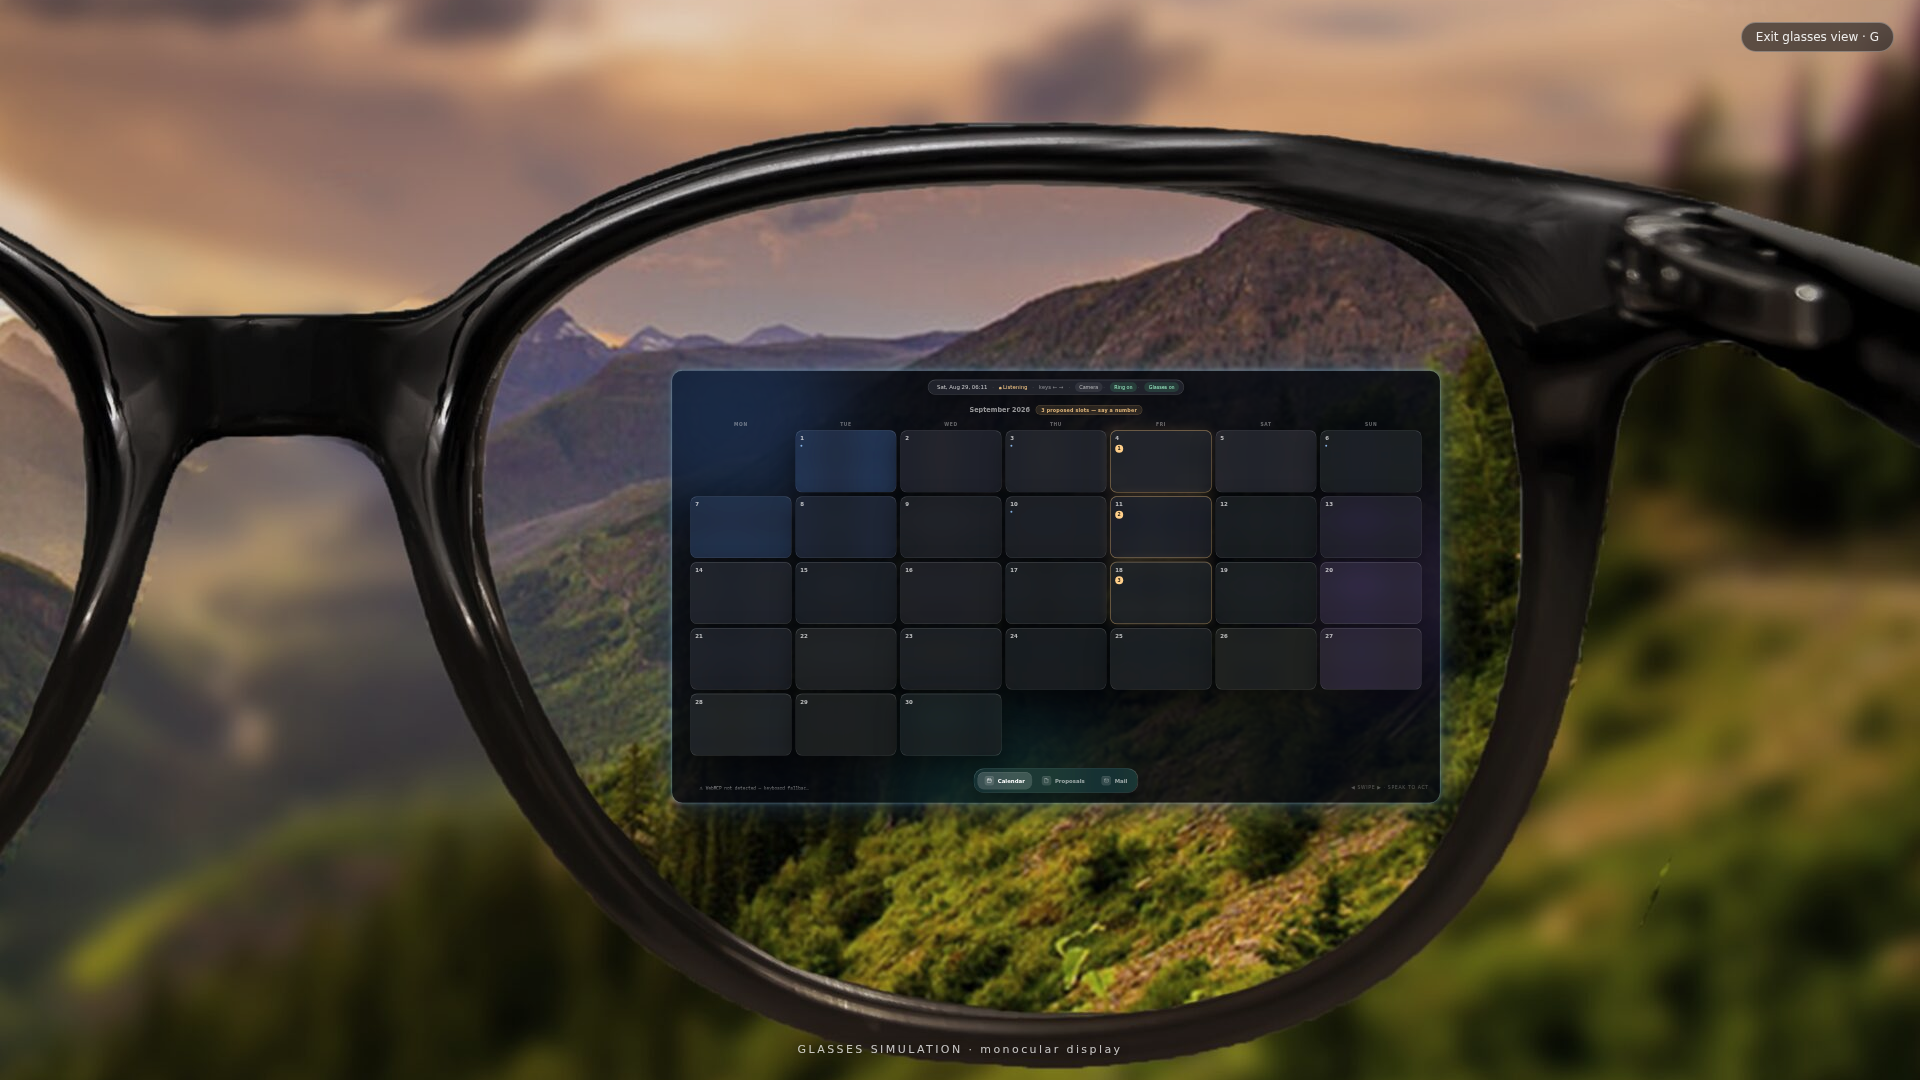
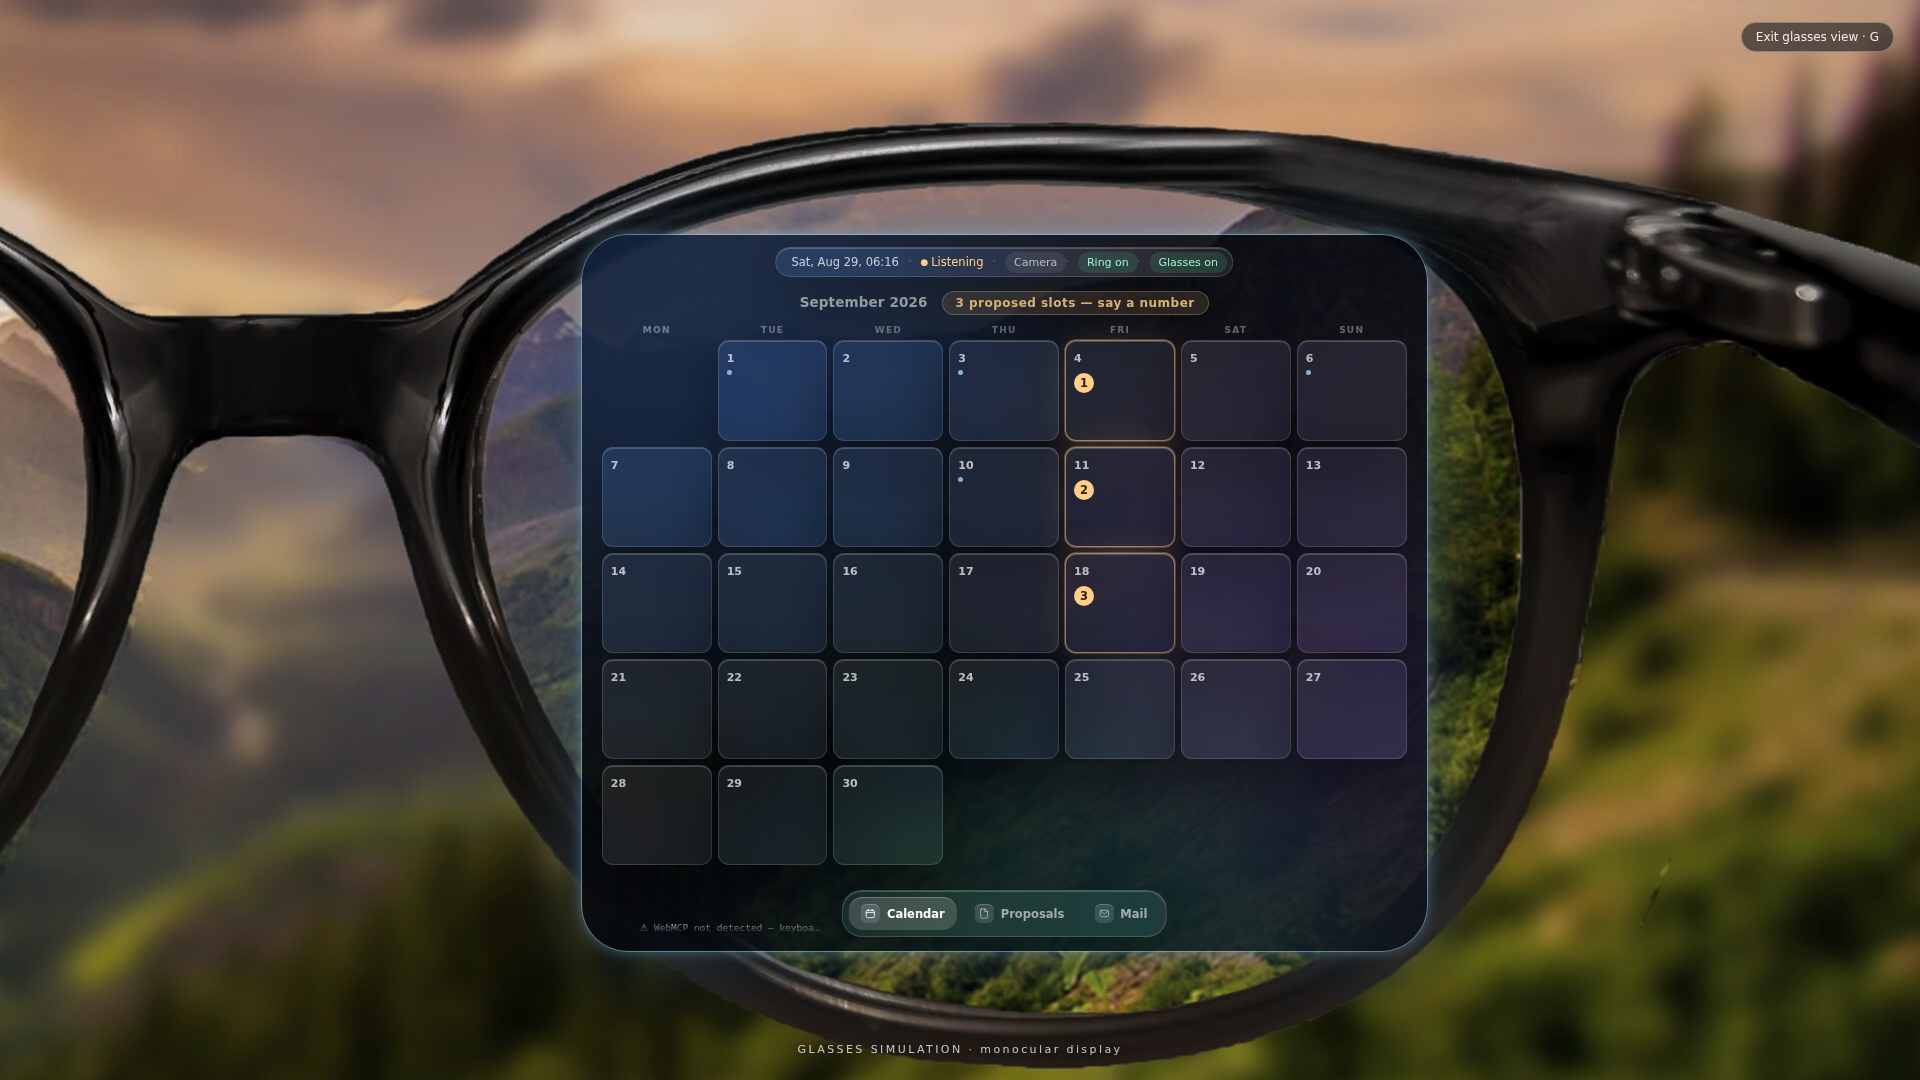
Glasses breakpoint: app reflows into a near-square lens viewport instead of scaling down

Changed region(s): [[0.2812, 0.1833, 0.75, 0.9472]]

diff --git a/src/style.css b/src/style.css
@@ -421,8 +421,8 @@ body {
 }
 
 body.glasses-on #app {
-  position: relative; z-index: 5;
-  border-radius: 26px;
+  z-index: 5;
+  border-radius: 46px;
   overflow: hidden;
   outline: 1px solid rgba(170, 225, 255, 0.4);
   box-shadow:
@@ -431,6 +431,46 @@ body.glasses-on #app {
     0 30px 80px rgba(0, 0, 0, 0.5);
   background: rgba(7, 10, 18, 0.86);
 }
+
+/* The glasses breakpoint: like a phone media query, but the trigger is the
+   lens. The app gets a near-square viewport, so the layout compacts. */
+body.glasses-on #chip { top: 12px; gap: 9px; padding: 7px 15px; font-size: 11.5px; }
+body.glasses-on #chip .mcp, body.glasses-on #chip .mcp + .sep { display: none; }
+body.glasses-on #camera-toggle, body.glasses-on #controller-toggle, body.glasses-on #glasses-toggle { font-size: 11px; padding: 4px 9px; }
+body.glasses-on #stage { inset: 56px 0 86px; }
+body.glasses-on .hello { padding: 28px 36px; border-radius: 26px; }
+body.glasses-on .hello h1 { font-size: 26px; }
+body.glasses-on .hello p { font-size: 13.5px; margin-top: 9px; }
+body.glasses-on .card {
+  width: min(400px, 82%); min-height: 272px; margin-top: -150px;
+  padding: 22px 26px; border-radius: 24px;
+}
+body.glasses-on .reader { width: min(520px, 90%); padding: 26px 30px; border-radius: 26px; }
+body.glasses-on .reader h1 { font-size: 23px; }
+body.glasses-on .reader .body { font-size: 14px; line-height: 1.65; margin-top: 14px; }
+body.glasses-on .rhint { margin-top: 18px; font-size: 10.5px; }
+body.glasses-on .calwrap { padding: 0 20px; }
+body.glasses-on .calhead { font-size: 13.5px; margin-bottom: 10px; }
+body.glasses-on .week { gap: 7px; }
+body.glasses-on .day { border-radius: 15px; padding: 10px 9px; }
+body.glasses-on .dh { margin-bottom: 7px; }
+body.glasses-on .dh .wd { font-size: 9px; letter-spacing: 0.1em; }
+body.glasses-on .dh .dn { font-size: 15px; }
+body.glasses-on .ev { border-radius: 8px; padding: 5px 7px; font-size: 10px; margin-top: 5px; }
+body.glasses-on .ev b { font-size: 9.5px; }
+body.glasses-on .mhead { gap: 6px; margin-bottom: 5px; }
+body.glasses-on .mhead span { font-size: 9px; }
+body.glasses-on .month { gap: 6px; }
+body.glasses-on .mcell { border-radius: 11px; padding: 6px 8px; }
+body.glasses-on .mcell .dn { font-size: 11px; }
+body.glasses-on .mdots { margin-top: 4px; }
+body.glasses-on #dock { bottom: 14px; padding: 6px; border-radius: 20px; }
+body.glasses-on .dock-item { padding: 7px 12px; font-size: 11.5px; gap: 7px; border-radius: 14px; }
+body.glasses-on .dock-item .ic { width: 19px; height: 19px; border-radius: 6px; }
+body.glasses-on .dock-item .ic svg { width: 11px; height: 11px; }
+body.glasses-on #hint { display: none; }
+body.glasses-on #feed { left: 18px; bottom: 16px; width: 220px; font-size: 9.5px; }
+body.glasses-on #swipe-pulse { font-size: 44px; }
 
 #glasses-chrome { position: fixed; inset: 0; z-index: 40; pointer-events: none; }
 #glasses-chrome[hidden] { display: none; }

diff --git a/src/views/glasses.ts b/src/views/glasses.ts
@@ -5,11 +5,13 @@
 // channel (agent tools, palm, ring, keys) keeps working.
 const STORAGE_KEY = "webmcp-surface-glasses";
 
-// Where the lens sits inside the photo, as fractions of the image, and how
-// wide the projected panel should be relative to the lens. Tuned by eye
-// against public/glasses-pov.jpg — adjust here if the photo changes.
+// Where the lens sits inside the photo, as fractions of the image, and the
+// display box carved into it. Tuned by eye against public/glasses-pov.jpg —
+// adjust here if the photo changes. `aspect` is the glasses breakpoint: the
+// app is given a real near-square viewport of this shape (not scaled down),
+// so the layout genuinely reflows to fit the lens.
 const IMAGE_ASPECT = 1920 / 1334;
-const LENS = { cx: 0.55, cy: 0.535, panelWidth: 0.4 };
+const LENS = { cx: 0.523, cy: 0.54, width: 0.44, aspect: 1.18 };
 
 function feed(line: string) {
   document.dispatchEvent(new CustomEvent<string>("agent-feed", { detail: line }));
@@ -57,8 +59,13 @@ export class GlassesMode {
     this.chrome.hidden = !this.enabled;
     this.button.textContent = this.enabled ? "Glasses on" : "Glasses";
     this.button.classList.toggle("on", this.enabled);
-    if (this.enabled) this.reposition();
-    else this.app.style.transform = "";
+    if (this.enabled) {
+      this.reposition();
+    } else {
+      for (const prop of ["position", "left", "top", "width", "height", "transform"] as const) {
+        this.app.style[prop] = "";
+      }
+    }
     try {
       localStorage.setItem(STORAGE_KEY, this.enabled ? "1" : "0");
     } catch {
@@ -68,8 +75,8 @@ export class GlassesMode {
   }
 
   // The photo covers the viewport (object-fit: cover). Recompute where the
-  // lens landed on screen and pin the scaled app to it, so the UI stays on
-  // the glasses at any window size.
+  // lens landed on screen and give the app a real box of that size — resize,
+  // not scale, so the UI reflows to the lens shape and text stays readable.
   private reposition() {
     if (!this.enabled) return;
     const vw = window.innerWidth;
@@ -80,8 +87,15 @@ export class GlassesMode {
     const offsetY = (vh - dispH) / 2;
     const cx = offsetX + LENS.cx * dispW;
     const cy = offsetY + LENS.cy * dispH;
-    const s = (LENS.panelWidth * dispW) / vw;
-    this.app.style.transform = `translate(${(cx - vw / 2).toFixed(1)}px, ${(cy - vh / 2).toFixed(1)}px) scale(${s.toFixed(4)})`;
+    const w = LENS.width * dispW;
+    const h = w / LENS.aspect;
+    Object.assign(this.app.style, {
+      position: "fixed",
+      left: `${(cx - w / 2).toFixed(1)}px`,
+      top: `${(cy - h / 2).toFixed(1)}px`,
+      width: `${w.toFixed(1)}px`,
+      height: `${h.toFixed(1)}px`,
+    });
   }
 
   private buildBackdrop(): HTMLElement {

diff --git a/README.md b/README.md
@@ -71,10 +71,14 @@ Responsive design adapted layout to screens; this surface adapts *interaction*
 to context. The **Glasses** toggle shows what that means: the wearer's point
 of view through one lens, with the same live page projected inside the lens as
 a monocular AR display — driven by voice (through the agent) and a ring, with
-no keyboard in reach. The panel is repositioned by JS as the window resizes so
-it always stays on the glass (`LENS` in `src/views/glasses.ts` holds the lens
-coordinates if the photo changes). Nothing about the page changes between
-contexts; only the available input channels do.
+no keyboard in reach. This is a real **glasses breakpoint**, not a scaled-down
+screen: the app is given a genuine near-square viewport carved into the lens,
+so the layout reflows (compact chip, tighter cards, denser calendar) and text
+stays readable — the same way a phone breakpoint reflows a desktop page. JS
+re-pins the box as the window resizes so it always stays on the glass (`LENS`
+in `src/views/glasses.ts` holds the lens coordinates if the photo changes).
+The page's capabilities don't change between contexts; only the input
+channels and the layout do.
 
 ![Glasses simulation](shots/glasses.png)
 
